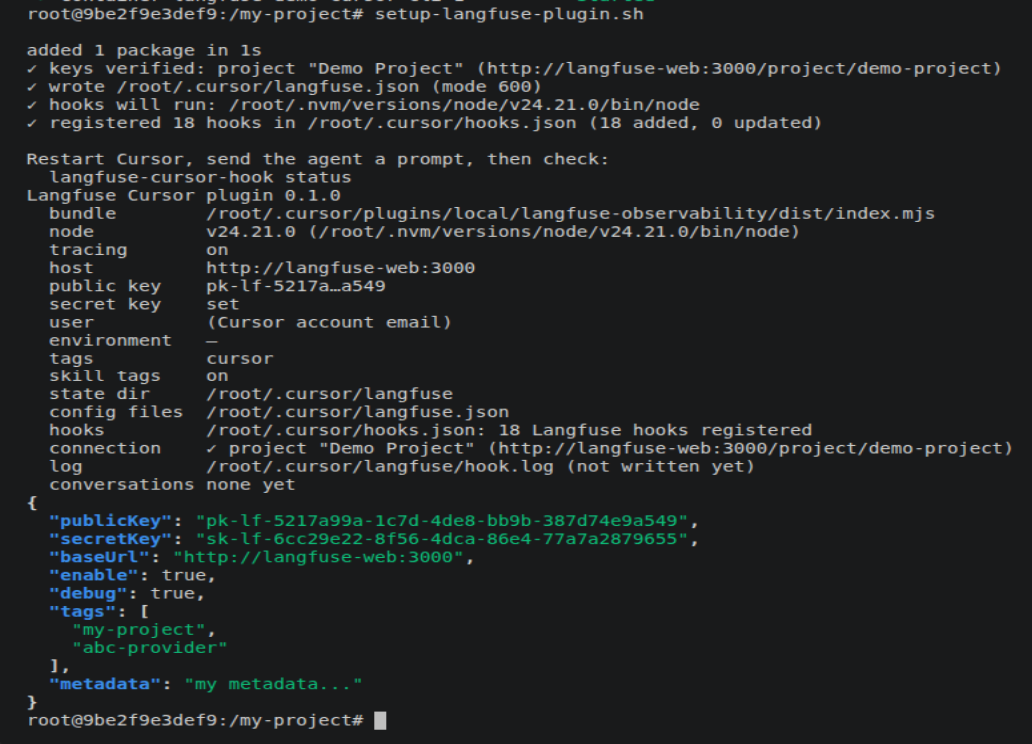
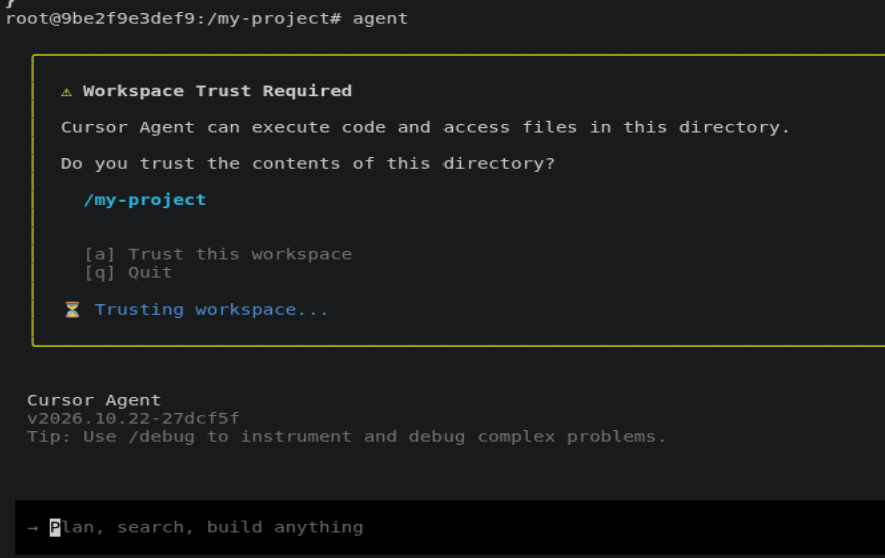
update demo doc MDs

Changed region(s): [[0.0, 0.0, 1.0, 1.0]]

diff --git a/doc/demo-copilot-cli.md b/doc/demo-copilot-cli.md
@@ -1,0 +1,101 @@
+# Copilot CLI and self-hosting Langfuse Demo
+
+## About this demo
+
+This demo illustrates how Copilot CLI pushes OpenTelemetry metrics and traces to a local [self-hosting Langfuse server](https://langfuse.com/self-hosting).
+
+[Langfuse](https://langfuse.com/docs/observability/get-started) is an open-source AI observability platform for Large Language Model (LLM) and AI agent applications. It comes with a built-in dashboard and trace viewer for monitoring, and it can also be deployed locally.
+
+Since Copilot CLI natively support OTLP, therefore we only need to assign the OTEL environment variables to enable the OpenTelemetry reporting.
+
+```yaml
+    environment:
+      COPILOT_OTEL_ENABLED: true
+      OTEL_EXPORTER_OTLP_ENDPOINT: http://langfuse-web:3000/api/public/otel
+      #OTEL_EXPORTER_OTLP_HEADERS: Authorization=Basic <<base64-$LANGFUSE_PUBLIC_KEY:$LANGFUSE_SECRET_KEY>>,x-langfuse-ingestion-version=4"
+      # opt-in: include prompts, responses, and tool arguments
+      OTEL_INSTRUMENTATION_GENAI_CAPTURE_MESSAGE_CONTENT: true
+      COPILOT_MODEL: gpt-6-luna
+      GH_TOKEN: ${GH_TOKEN:-}
+```
+
+## How to run this demo
+
+1. Clone this GitHub repo. Docker must be installed on your machine.
+
+   ```
+   git clone https://github.com/kwonghung-YIP/langfuse-demo
+   ```
+
+2. Create your GitHub Fine-grained Personal Access Token, the token requires the "Read access to user copilot requests". ([GitHub > Profile Settings > Developer Settings > Personal access tokens > Fine-grained tokens > "Generate new token"](https://github.com/settings/personal-access-tokens)).
+
+   ![Add Personal Access Token in GitHub Profile](./copilot/github-create-gh_token.png)
+
+3. Paste the token into the **`.env`** file in the repo root folder, and create the **`GH_TOKEN`** environment variable.
+
+   ```
+   GH_TOKEN=<<paste_your_token_here>>
+   ...
+   ```
+
+4. Run [**`./demo-copilot.sh`**](../demo-copilot.sh). It:
+
+   - starts the [docker-compose.yml](../docker-compose.yml) stack with the copilot profile (the first run may take some time to download the images),
+   - builds and starts the Copilot CLI image,
+   - starts the self-hosted Langfuse stack, [langfuse-compose.yml](../langfuse-compose.yml),
+   - attaches to the Copilot CLI container.
+
+   ```
+   docker compose \
+   --profile copilot \
+   --env-file .env --env-file demo.env \
+   up \
+   --build --detach --remove-orphans
+
+   docker compose \
+   exec -it copilot-cli \
+   bash -c "source setup-copilot-cli.sh && exec bash"
+   ```
+
+   After `./demo-copilot.sh` completes, your terminal should be attached to the Copilot CLI container.
+
+   ![Attached to Copilot CLI container after the ./demo-copilot.sh completed.](./copilot/after-demo-copilot.sh.png)
+
+5. Wait until the Langfuse stack has started, then open the Langfuse console at [http://localhost:3000](http://localhost:3000) and log in with the default user account **admin@demo.com / abcd1234**.
+
+   ![Langfuse console first launch](./cursor/langfuse-console-first-launch.png)
+
+6. Go back to the Copilot CLI container and run [**`setup-copilot-cli.sh`**](../copilot-cli/setup-copilot-cli.sh) to complete the setup.
+
+7. Run **`copilot`** to start Copilot CLI, and trust the **`/my-project`** workspace.
+
+   ![Start Copilot CLI and trust /my-project workspace](./copilot/run-copilot-trust-my-project.png)
+
+8. With the Personal Access Token defined in the **`.env`** file, you should be able to log into Copilot.
+
+   ![Check the CLI and account info](./copilot/copilot-cli-user-show.png)
+
+9. Say hello to the agent and find the traces in the Langfuse console.
+
+   ![Say hello to agent](./copilot/hello-agent.png)
+
+   ![Check the trace in Langfuse console](./copilot/hello-agent-trace.png)
+
+10. Run the [cursor-model-pricing](../project-settings/cursor/.cursor/agents/cursor-model-pricing.md) sub-agent in the **`/my-project`** workspace and check the traces.
+
+   ![Run the sub-agent cursor-model-pricing](./copilot/run-subagent-copilot-model-pricing.png)
+
+   ![Check the trace in Langfuse console](./copilot/run-subagent-copilot-model-pricing-trace.png)
+
+11. Langfuse also comes with a built-in token usage and cost dashboard.
+
+   ![Built-in token usage and cost dashboard](./cursor/langfuse-token-usage-dashboard.png)
+
+12. Run [**`./clear-up.sh`**](./clear-up.sh) to clean up the Docker stack.
+
+## References
+
+- [Self Hosting Langfuse with Docker Compose](https://langfuse.com/self-hosting/deployment/docker-compose)
+- [Langfuse Headless Initialization](https://langfuse.com/self-hosting/administration/headless-initialization)
+- [Cursor Tracing with Langfuse](https://langfuse.com/integrations/developer-tools/cursor)
+- [Langfuse Observability Plugin for Cursor - GitHub Repo](https://github.com/langfuse/cursor-observability-plugin)

diff --git a/doc/demo-cursor-cli.md b/doc/demo-cursor-cli.md
@@ -1,4 +1,4 @@
-# Cursor CLI and self-hosting Langfuse Demo
+# Cursor CLI pushes OpenTelementry data to self-hosting Langfuse Server
 
 ## About this demo
 
@@ -16,9 +16,9 @@ Because Cursor CLI does not natively support OTLP, Langfuse provides a [Cursor p
    git clone https://github.com/kwonghung-YIP/langfuse-demo
    ```
 
-2. Create your Cursor API token ([Settings > API Keys > Add...](https://cursor.com/dashboard/api)).
+2. Create your Cursor API token ([Cursor > Settings > API Keys > The "Add..." button](https://cursor.com/dashboard/api)).
 
-   [![Add API Key in Cursor Console](./cursor/cursor-console-add-api-key.png)
+   ![Add API Key in Cursor Console](./cursor/cursor-console-add-api-key.png)
 
 3. Paste the token into the **`.env`** file in the repo root folder, and create the **`CURSOR_API_KEY`** environment variable.
 
@@ -38,17 +38,17 @@ Because Cursor CLI does not natively support OTLP, Langfuse provides a [Cursor p
    #!/bin/bash
 
    docker compose \
-     --profile cursor \
-     --env-file .env --env-file demo.env \
-     up \
-     --build --detach --remove-orphans
+   --profile cursor \
+   --env-file .env --env-file demo.env \
+   up \
+   --build --detach --remove-orphans
 
    docker compose \
-     exec -it cursor-cli \
-     bash
+   exec -it cursor-cli \
+   bash
    ```
 
-   After `./demo-cursor.sh` completes, you should be attached to the Cursor CLI container.
+   - After `./demo-cursor.sh` completes, your terminal should be attached to the Cursor CLI container.
 
    ![Attached to Cursor CLI container after the ./demo-cursor.sh completed.](./cursor/after-demo-cursor.sh.png)
 
@@ -58,7 +58,7 @@ Because Cursor CLI does not natively support OTLP, Langfuse provides a [Cursor p
 
 6. Go back to the Cursor CLI container and run [**`setup-langfuse-plugin.sh`**](../cursor-cli/setup-langfuse-plugin.sh) to complete the plugin setup.
 
-   [![Run setup-langfuse-plugin.sh to complete the plugin setup](./cursor/after-setup-langfuse-plugin.sh.png)](./cursor/after-setup-langfuse-plugin.sh.png)
+   ![Run setup-langfuse-plugin.sh to complete the plugin setup](./cursor/after-setup-langfuse-plugin.sh.png)
 
 7. Run **`agent`** to start Cursor CLI, and trust the **`/my-project`** workspace.
 
@@ -72,17 +72,17 @@ Because Cursor CLI does not natively support OTLP, Langfuse provides a [Cursor p
 
    ![Say hello to agent](./cursor/hello-agent.png)
 
-   ![Check the trace in Langfuse console](https://github.com/kwonghung-YIP/langfuse-demo/raw/main/doc/cursor/hello-agent-trace.png)
+   ![Check the trace in Langfuse console](./cursor/hello-agent-trace.png)
 
-10. Run the [cursor-model-pricing](https://github.com/kwonghung-YIP/langfuse-demo/blob/main/project-settings/cursor/.cursor/agents/cursor-model-pricing.md) sub-agent in the **`/my-project`** workspace and check the traces.
+10. Run the [cursor-model-pricing](../project-settings/cursor/.cursor/agents/cursor-model-pricing.md) sub-agent in the **`/my-project`** workspace and check the traces.
 
-    ![Run the sub-agent cursor-model-pricing](./cursor/run-subagent-cursor-model-pricing.png)
+   ![Run the sub-agent cursor-model-pricing](./cursor/run-subagent-cursor-model-pricing.png)
 
-    ![Check the trace in Langfuse console](./cursor/run-sunagent-cursor-model-pricing-trace.png)
+   ![Check the trace in Langfuse console](./cursor/run-sunagent-cursor-model-pricing-trace.png)
 
 11. Langfuse also comes with a built-in token usage and cost dashboard.
 
-    ![Built-in token usage and cost dashboard](./cursor/langfuse-token-usage-dashboard.png)
+   ![Built-in token usage and cost dashboard](./cursor/langfuse-token-usage-dashboard.png)
 
 12. Run [**`./clear-up.sh`**](./clear-up.sh) to clean up the Docker stack.
 
